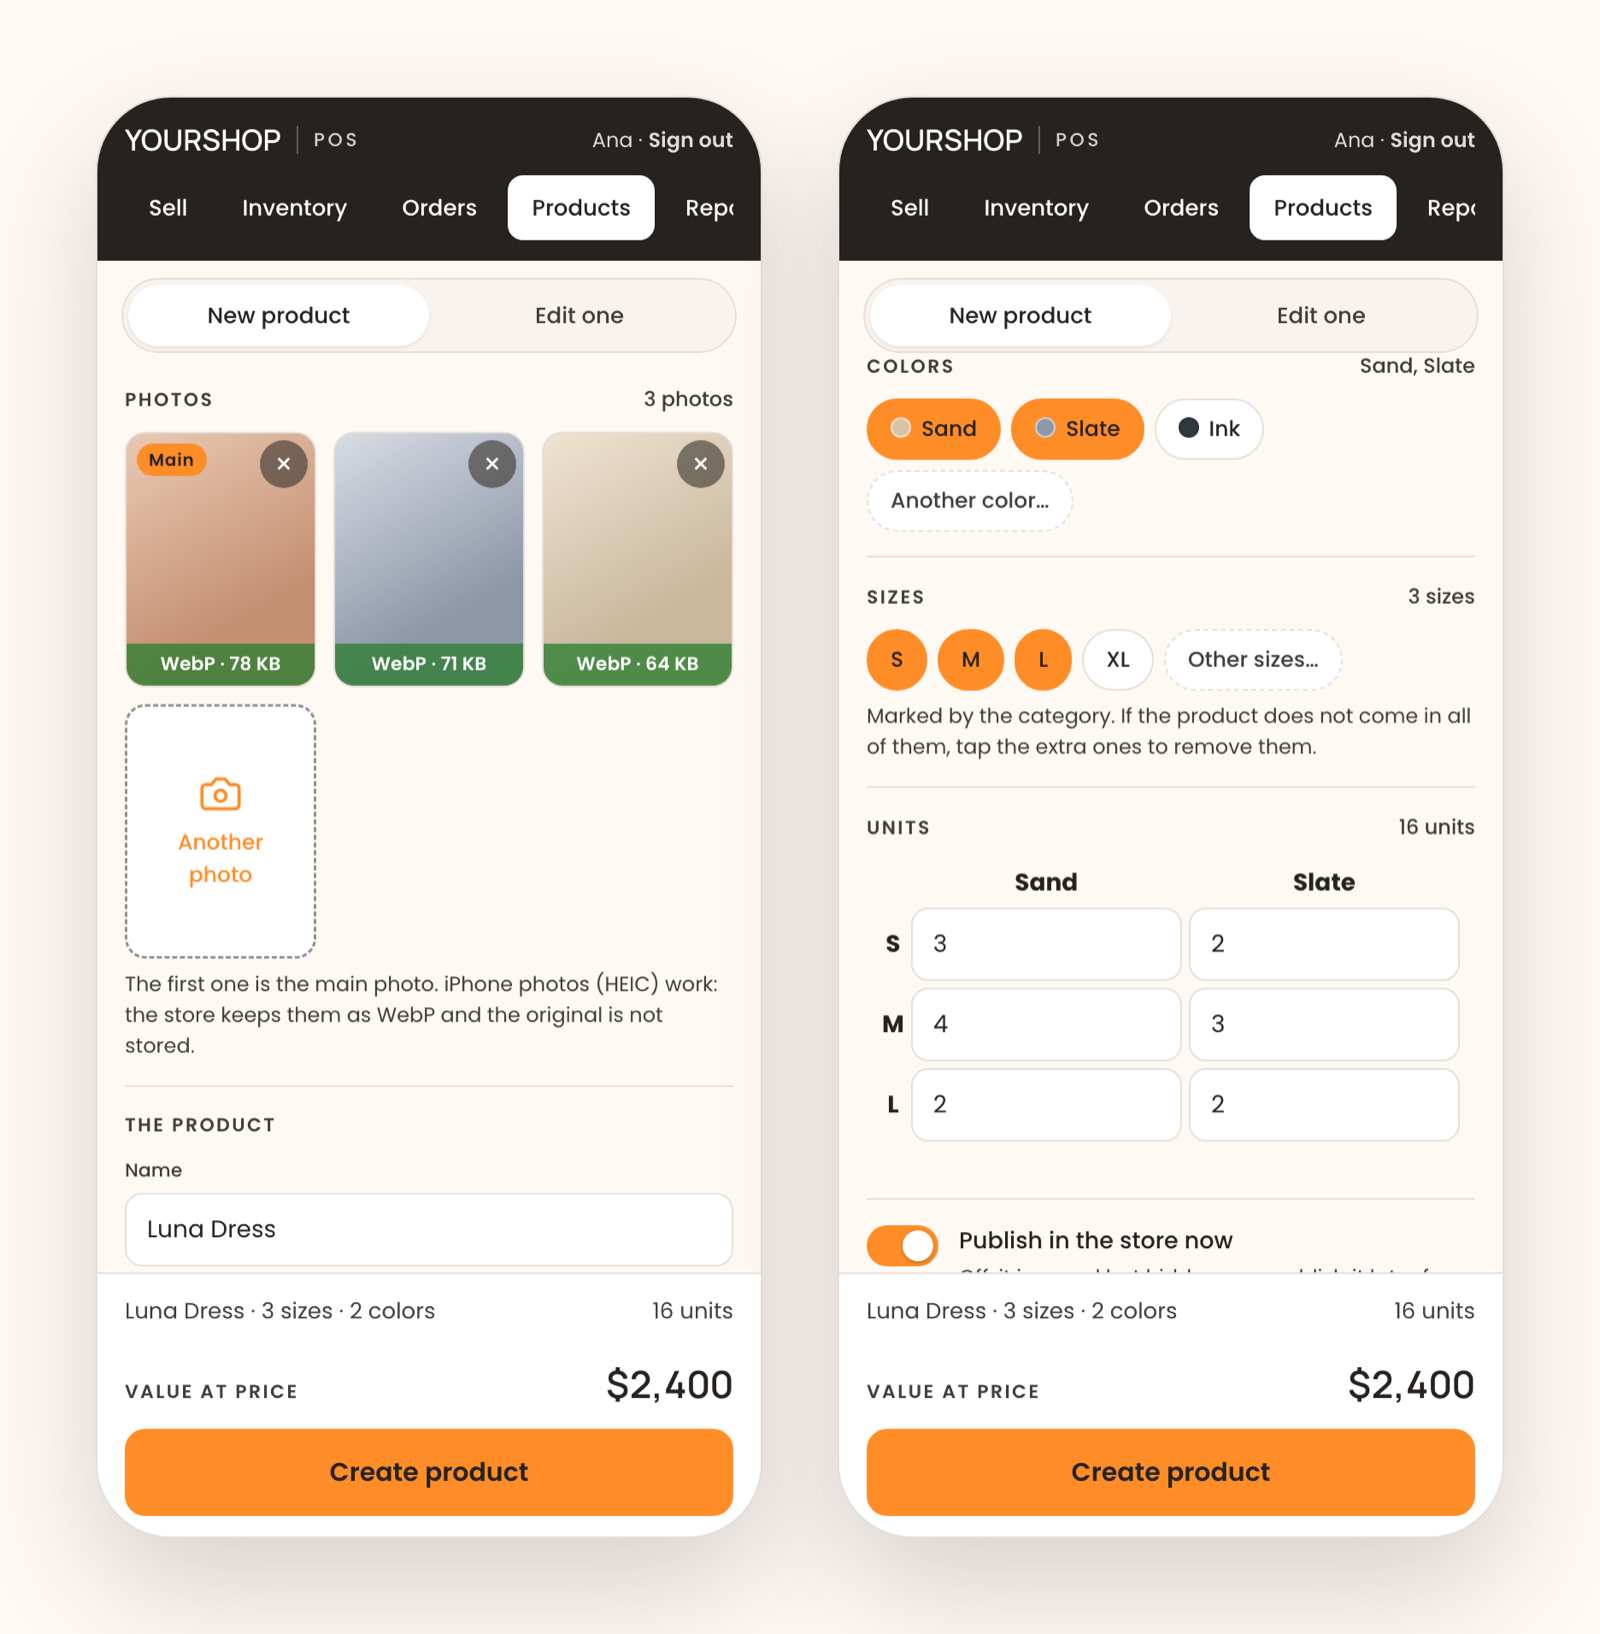
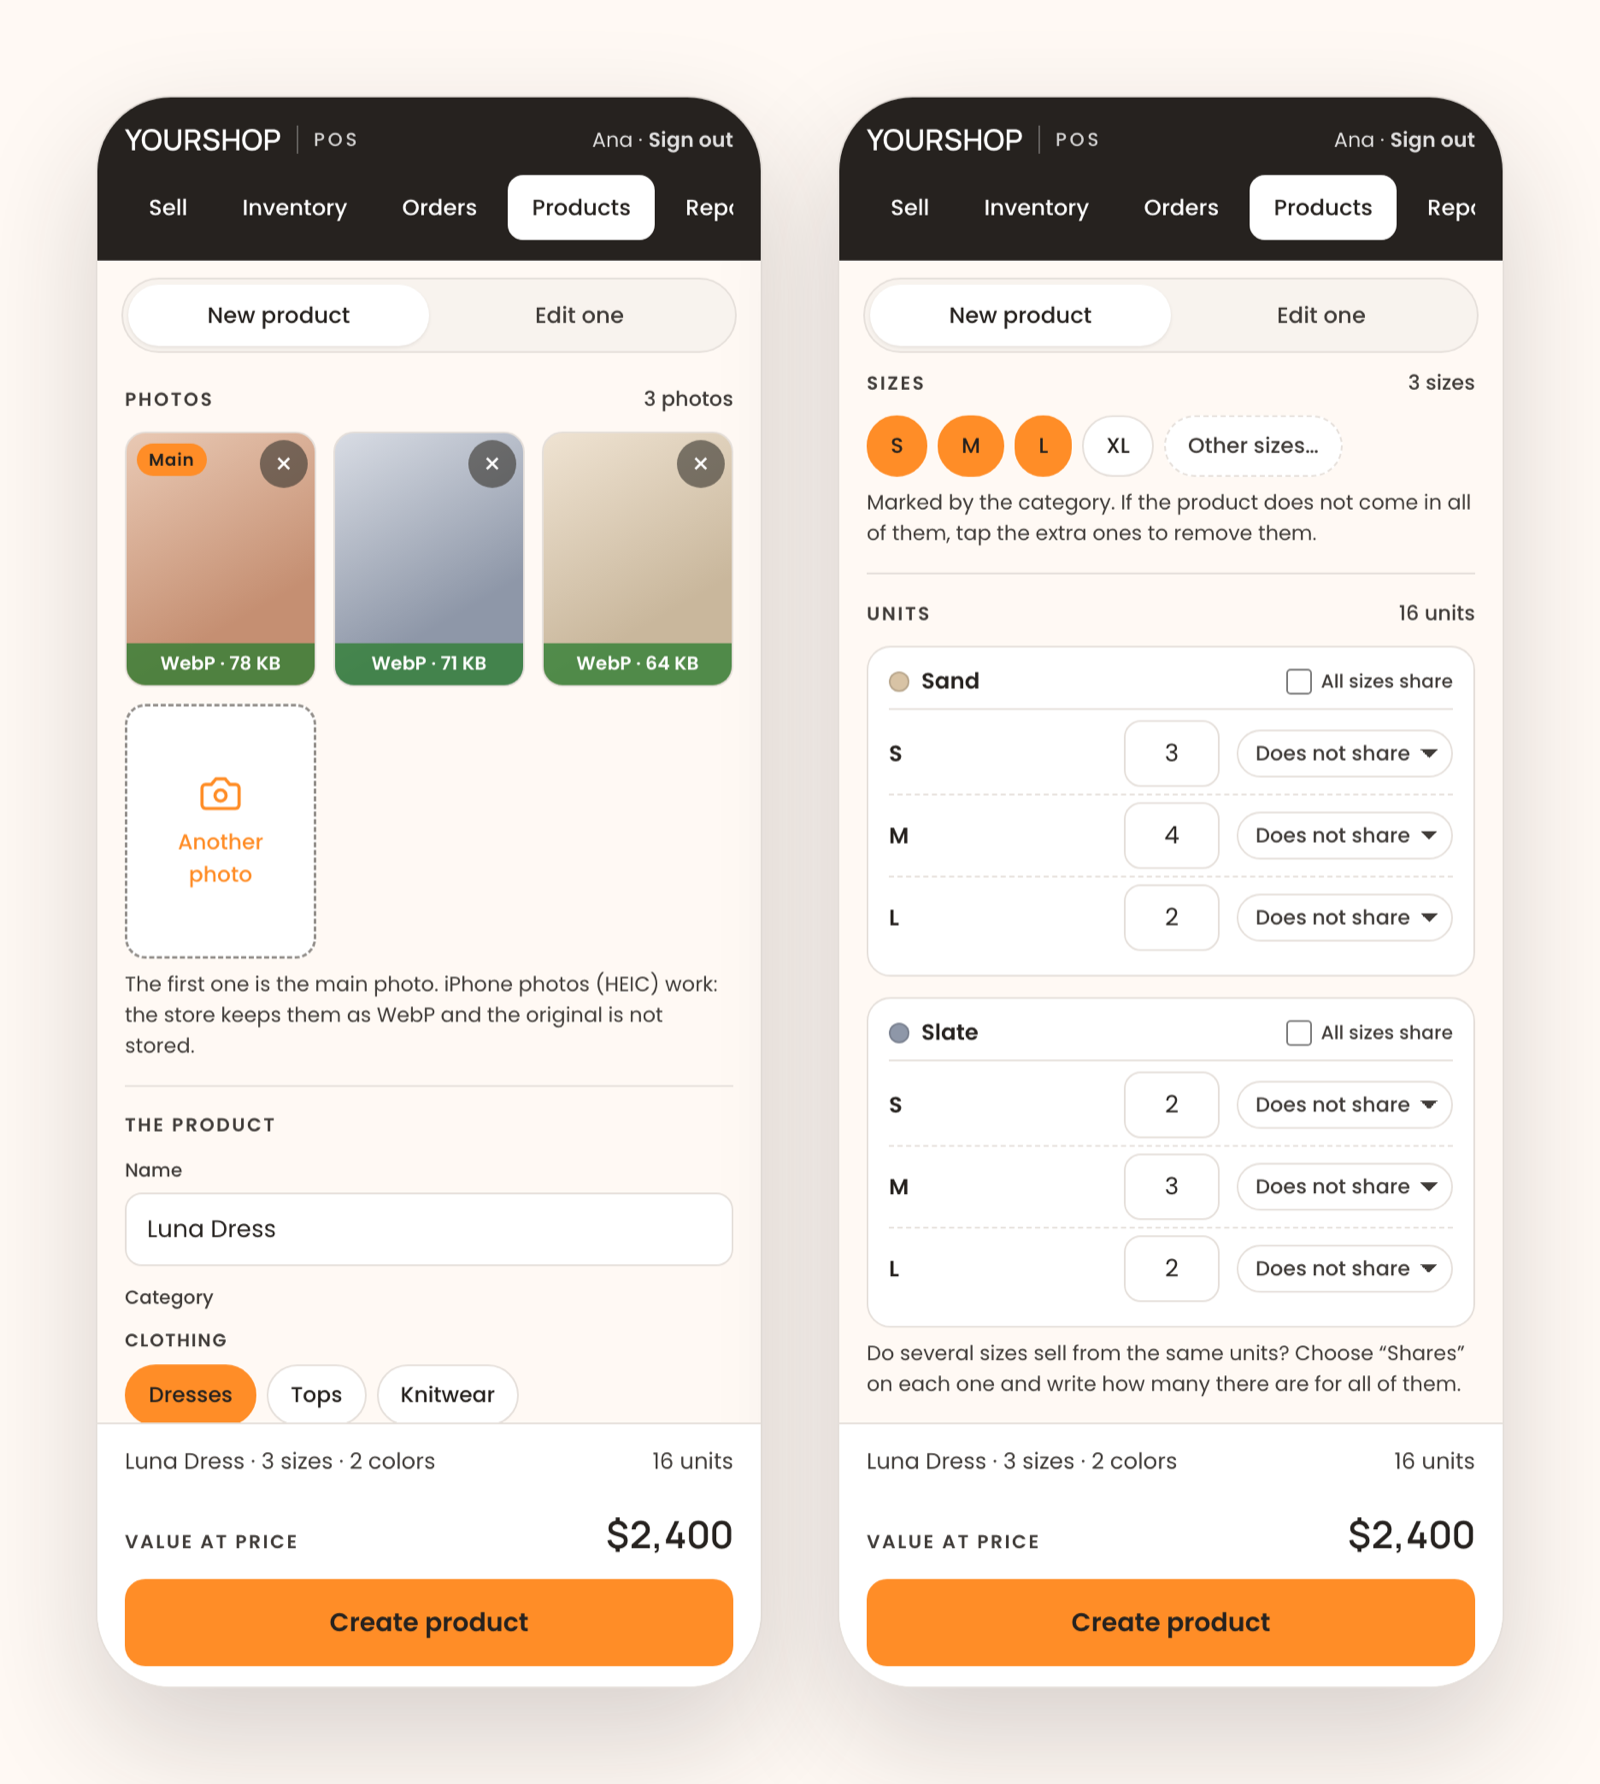
La página del plugin y el bloque de unidades de la captura
Plugin URI pasa a https://doxstudio.com/dox-pos/, que es la página del producto (GitHub se
queda como Update URI, que el zip del directorio no lleva). Sigue siendo distinta del Author
URI, como pide el directorio.

La captura del formulario de producto enseñaba las unidades como una tabla de colores por
tallas; desde la 0.32.1 son una tarjeta por color, con el menú de compartir en cada talla.
El teléfono de esa maqueta pasa a 932 de alto (solo esa pantalla, con la clase alto) para
que las dos tarjetas quepan enteras.

diff --git a/dox-pos.php b/dox-pos.php
@@ -1,7 +1,7 @@
 <?php
 /**
  * Plugin Name:       Dox POS
- * Plugin URI:        https://github.com/davidzoque/dox-pos
+ * Plugin URI:        https://doxstudio.com/dox-pos/
  * Description:       The register for a shop that sells on WhatsApp and Instagram: record sales, layaways and incoming stock from the frontend (/pos), without wp-admin, with orders, products, history, a stock ledger and Excel files. Every sale is a WooCommerce order, so stock goes down on its own. With Dox POS Pro, the business assistant.
  * Version:           0.37.2
  * Requires at least: 6.5
